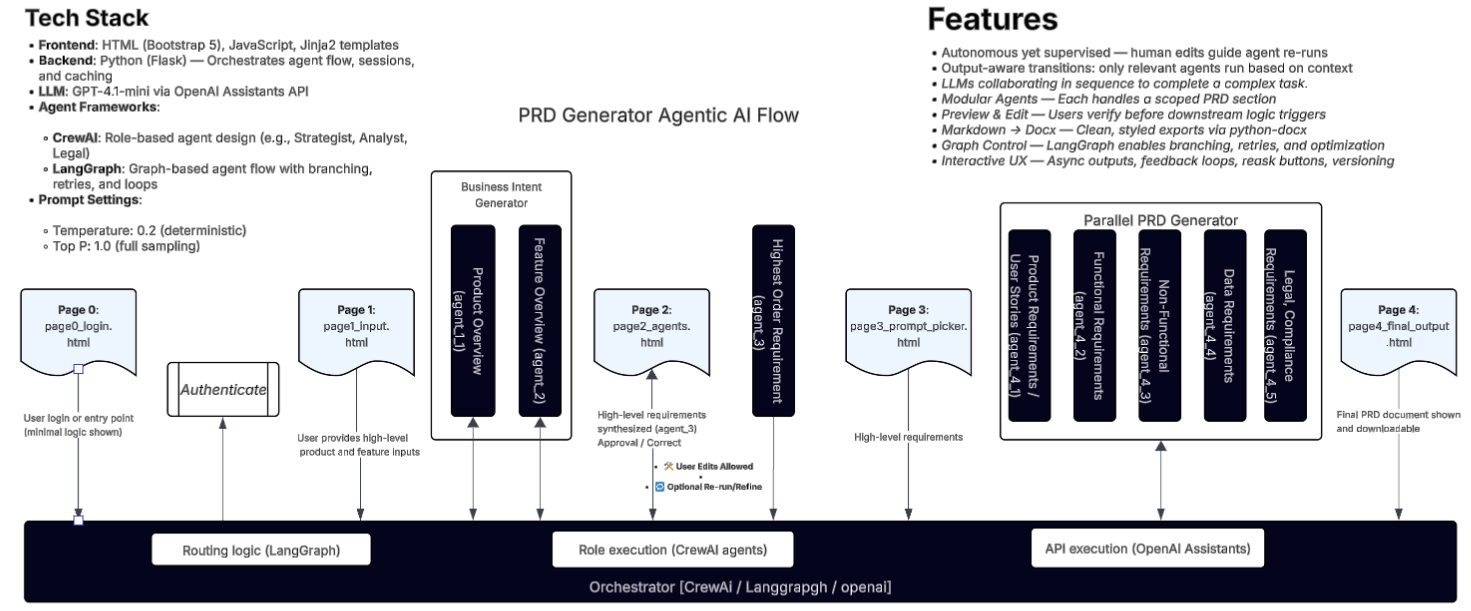
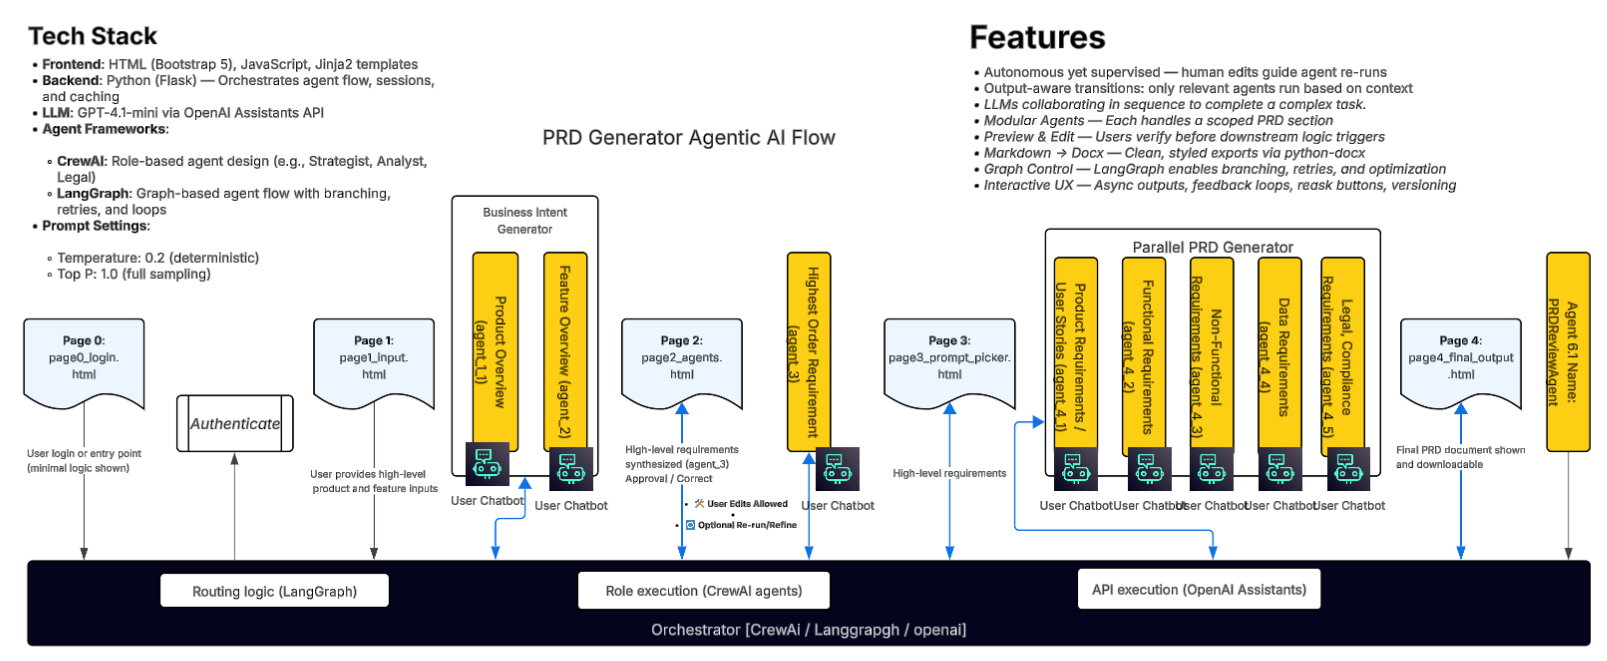
PRD Reviewer and update Diagram

diff --git a/templates/page4_final_output.html b/templates/page4_final_output.html
@@ -74,7 +74,7 @@
     }
 
     body {
-      background: linear-gradient(135deg, #38393a 0%, #403f41 100%);
+      background-color: #343a40 !important;
       min-height: 100vh;
       display: flex;
       align-items: center;
@@ -375,7 +375,14 @@
   </style>
 </head>
 
-<body class="bg-light">
+<body style="background-color: #343a40;">
+  <div id="reviewLoadingOverlay"
+    style="display: none; position: fixed; top: 0; left: 0; width: 100%; height: 100vh; background-color: rgba(255,255,255,0.8); z-index: 2000; display: none; align-items: center; justify-content: center;">
+    <div class="text-center">
+      <div class="spinner-border text-danger" role="status"></div>
+      <p class="mt-2 fw-semibold text-danger">Reviewing PRD... please wait</p>
+    </div>
+  </div>
   <div style="margin-left: 700px;">
     <div class="container my-5">
       <!-- Page 4 Chat Panel -->
@@ -423,6 +430,7 @@
         <button type="button" class="btn btn-download" onclick="downloadDoc()">
           <i class="bi bi-file-earmark-word me-2"></i>Download as Word
         </button>
+        <button class="btn btn-warning ms-3" onclick="triggerPRDReview()">🧪 Review PRD</button>
       </div>
 
       <!-- Replace the existing card-body content with this -->
@@ -451,7 +459,12 @@
     </div>
   </div>
   <script>
-
+    function toggleReviewOverlay(show) {
+      const overlay = document.getElementById("reviewLoadingOverlay");
+      if (overlay) {
+        overlay.style.display = show ? "flex" : "none";
+      }
+    }
     document.addEventListener('DOMContentLoaded', function () {
       // Set up markdown options
       marked.setOptions({
@@ -678,8 +691,61 @@
         chatbox.scrollTop = chatbox.scrollHeight;
       }
     }
+
+    async function triggerPRDReview() {
+      const sections = getAllContent();
+      const btn = document.querySelector(".btn-warning");
+      const originalLabel = btn.innerHTML;
+
+      btn.innerHTML = `<span class="spinner-border spinner-border-sm"></span> Reviewing...`;
+      btn.disabled = true;
+      toggleReviewOverlay(true); // ✅ Show overlay on click
+
+      try {
+        const res = await fetch("/review_prd", {
+          method: "POST",
+          headers: { "Content-Type": "application/json" },
+          body: JSON.stringify({ sections })
+        });
+
+        const data = await res.json();
+        const html = data.issues.map(i => `
+      <div class="mb-3">
+        <strong>${i.section}</strong><br/>
+        🔺 <span class="text-danger">${i.issue}</span><br/>
+        💡 <em>${i.suggestion}</em>
+      </div>
+    `).join("");
+
+        document.getElementById("reviewFeedback").innerHTML = html;
+        new bootstrap.Modal(document.getElementById("reviewModal")).show();
+      } catch (err) {
+        showError("Review failed. See console.");
+        console.error(err);
+      } finally {
+        btn.innerHTML = originalLabel;
+        btn.disabled = false;
+        toggleReviewOverlay(false); // ✅ Hide overlay after completion
+      }
+    }
+
+
   </script>
   <script src="https://cdn.jsdelivr.net/npm/bootstrap@5.3.0/dist/js/bootstrap.bundle.min.js"></script>
+  <div class="modal fade" id="reviewModal" tabindex="-1">
+    <div class="modal-dialog modal-lg modal-dialog-scrollable">
+      <div class="modal-content">
+        <div class="modal-header">
+          <h5 class="modal-title">AI Review – PRD Quality Check</h5>
+          <button type="button" class="btn-close" data-bs-dismiss="modal"></button>
+        </div>
+        <div class="modal-body" id="reviewFeedback"></div>
+        <div class="modal-footer">
+          <button class="btn btn-secondary" data-bs-dismiss="modal">Close</button>
+        </div>
+      </div>
+    </div>
+  </div>
 </body>
 
 </html>

diff --git a/templates/page2_agents.html b/templates/page2_agents.html
@@ -70,7 +70,7 @@
     }
 
     body {
-      background: linear-gradient(135deg, #f5f7fa 0%, #e4e9f2 100%);
+      background-color: #343a40 !important;
       font-family: 'Inter', system-ui, -apple-system, sans-serif;
     }
 
@@ -366,19 +366,10 @@
 
         <form method="post">
           <div class="mb-4">
-            <button onclick="toggleChatPanel()" class="btn btn-outline-secondary"
-              style="position: fixed; top: 10px; right: 10px; z-index: 1100;">Toggle Chat</button>
-
             <div class="card mb-4 shadow-sm">
               <div class="card-header bg-secondary text-white d-flex justify-content-between align-items-center">
                 <span>Product Overview</span>
-                <div>
-                  <button type="button" class="btn btn-edit" onclick="toggleEdit('product')">
-                    <i class="bi bi-pencil-square me-1"></i>
-
-                  </button>
-
-                </div>
+         
               </div>
               <div class="card-body">
                 <div id="productOverviewRender" class="formatted-content"></div>
@@ -391,9 +382,7 @@
             <div class="card mb-4 shadow-sm">
               <div class="card-header bg-secondary text-white d-flex justify-content-between align-items-center">
                 <span>Feature Overview</span>
-                <button type="button" class="btn btn-edit" onclick="toggleEdit('feature')">
-                  <i class="bi bi-pencil-square me-1"></i>
-                </button>
+      
               </div>
               <div class="card-body">
                 <div id="featureOverviewRender" class="formatted-content"></div>

diff --git a/templates/page3_prompt_picker.html b/templates/page3_prompt_picker.html
@@ -320,7 +320,7 @@
     <script src="https://cdn.jsdelivr.net/npm/marked/marked.min.js"></script>
 </head>
 
-<body class="bg-light">
+<body style="background-color: #343a40;">
     <div id="mainContent" style="margin-left: 320px;">
         <!-- Chat Panel for Page 3 (Agent 3) -->
         <div id="chatPanel"

diff --git a/templates/page1_input.html b/templates/page1_input.html
@@ -58,7 +58,7 @@
 
     /* Page Layout */
     body {
-      background: linear-gradient(135deg, #38393a 0%, #403f41 100%);
+      background-color: #343a40;
       min-height: 100vh;
       display: flex;
       align-items: center;

diff --git a/new-prd-workflow.py b/new-prd-workflow.py
@@ -141,7 +141,8 @@ ASSISTANTS = {
     'agent_4_2': 'asst_CLBdcKGduMvSBM06MC1OJ7bF', # Agent 4.2: Operational Business Requirements Generator – System Instructions
     'agent_4_3': 'asst_61ITzgJTPqkQf4OFnnMnndNb', # Agent 4.3: Capability-Scoped Non-Functional Requirements Generator – System Instructions
     'agent_4_4': 'asst_pPFGsMMqWg04OSHNmyQ5oaAy', # Agent 4.4: Data Attribute Requirement Generator – System Instructions
-    'agent_4_5': 'asst_wwgc1Zbl5iknlDtcFLOuTIjd'  # Agent 4.5: LRC: Legal, Regulatory, and Compliance Synthesizer – System Instructions
+    'agent_4_5': 'asst_wwgc1Zbl5iknlDtcFLOuTIjd',  # Agent 4.5: LRC: Legal, Regulatory, and Compliance Synthesizer – System Instructions
+'agent_4_6': 'asst_JOtY81FnKEkrhgcJmuJSDyip'
 }
 
 ########################
@@ -1521,7 +1522,60 @@ def chat_agent3():
     except Exception as e:
         logging.error(f"Chat Agent 3 error: {str(e)}")
         return jsonify({"error": str(e)}), 500
+     
+
+@app.route("/review_prd", methods=["POST"])
+def review_prd():
+    """
+    Agent 4.6: PRD Review and Quality Assurance Agent
+    
+    This endpoint processes requests to review a complete PRD using Agent 4.6 (asst_JOtY81FnKEkrhgcJmuJSDyip).
+    The agent analyzes all PRD sections for:
+    - Completeness of requirements
+    - Clarity and consistency
+    - Missing critical information
+    - Improvement suggestions
+    
+    Args:
+        sections (dict): PRD sections to review, received as JSON in request body
         
+    Returns:
+        JSON response containing:
+        - Array of issues found
+        - Each issue includes: section name, identified problem, and suggestion for improvement
+    """
+    data = request.get_json()
+    prd_sections = data.get("sections", {})
+
+    full_prd = "\n\n".join(
+        f"{key.replace('_', ' ').title()}:\n{value}"
+        for key, value in prd_sections.items()
+        if value.strip()
+    )
+
+  # Construct review prompt for Agent 4.6
+    review_prompt = (
+        "As the PRD Review and Quality Assurance Agent, analyze this PRD content. "
+        "For each section, evaluate completeness, clarity, and identify any gaps. "
+        "Provide specific, actionable improvements. "
+        "Format response as JSON array with fields: section, issue, suggestion.\n\n"
+        f"{full_prd}"
+    )
+
+    # Call Agent 4.6 (PRD Review Agent)
+    response = call_agent(ASSISTANTS['agent_4_6'], review_prompt)
+   # response = call_openai_agent("agent_4_6", review_prompt)  # Assumes this helper exists
+    try:
+        parsed = json.loads(response)
+    except json.JSONDecodeError:
+        parsed = [{
+            "section": "ReviewAgent", 
+            "issue": "Invalid JSON response format", 
+            "suggestion": "Please try the review again"
+        }]
+
+    return jsonify({"issues": parsed})
+    
 # Add to main
 if __name__ == '__main__':
     cleanup_expired_sessions()
